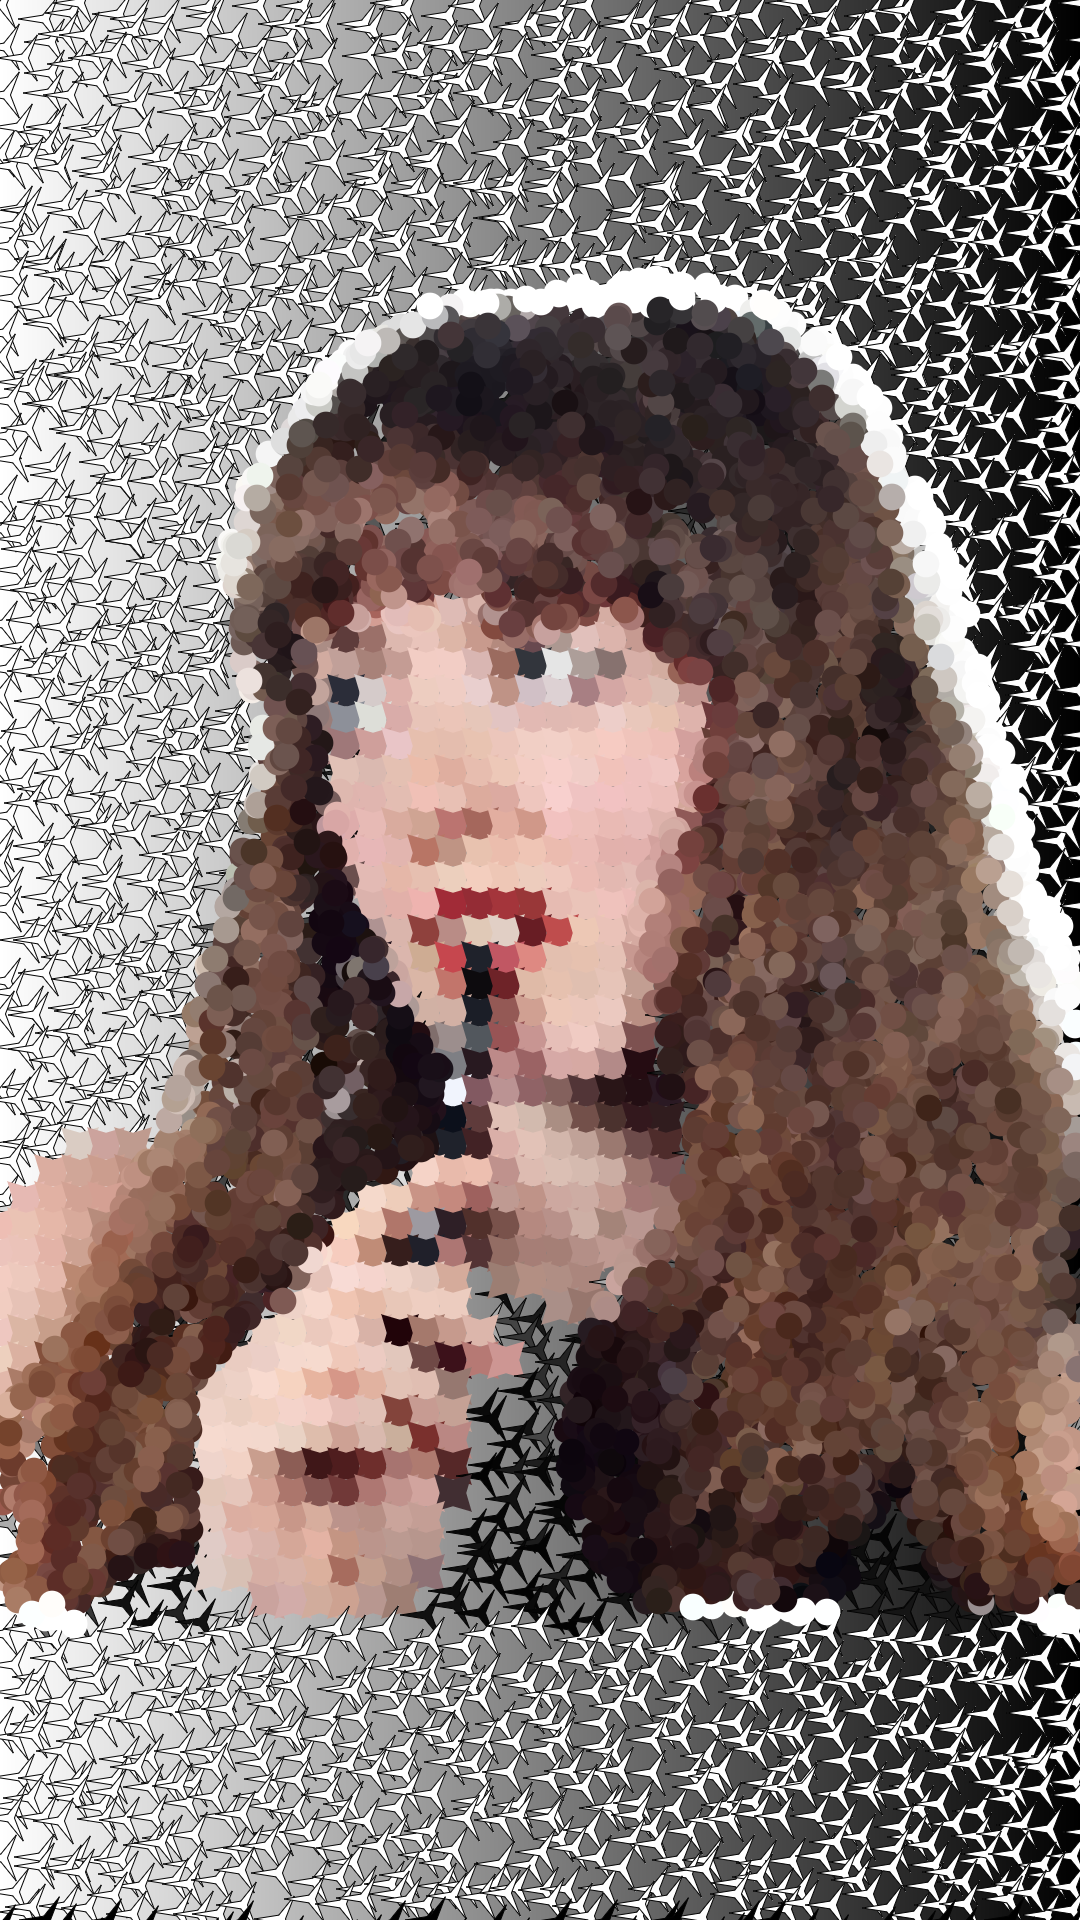
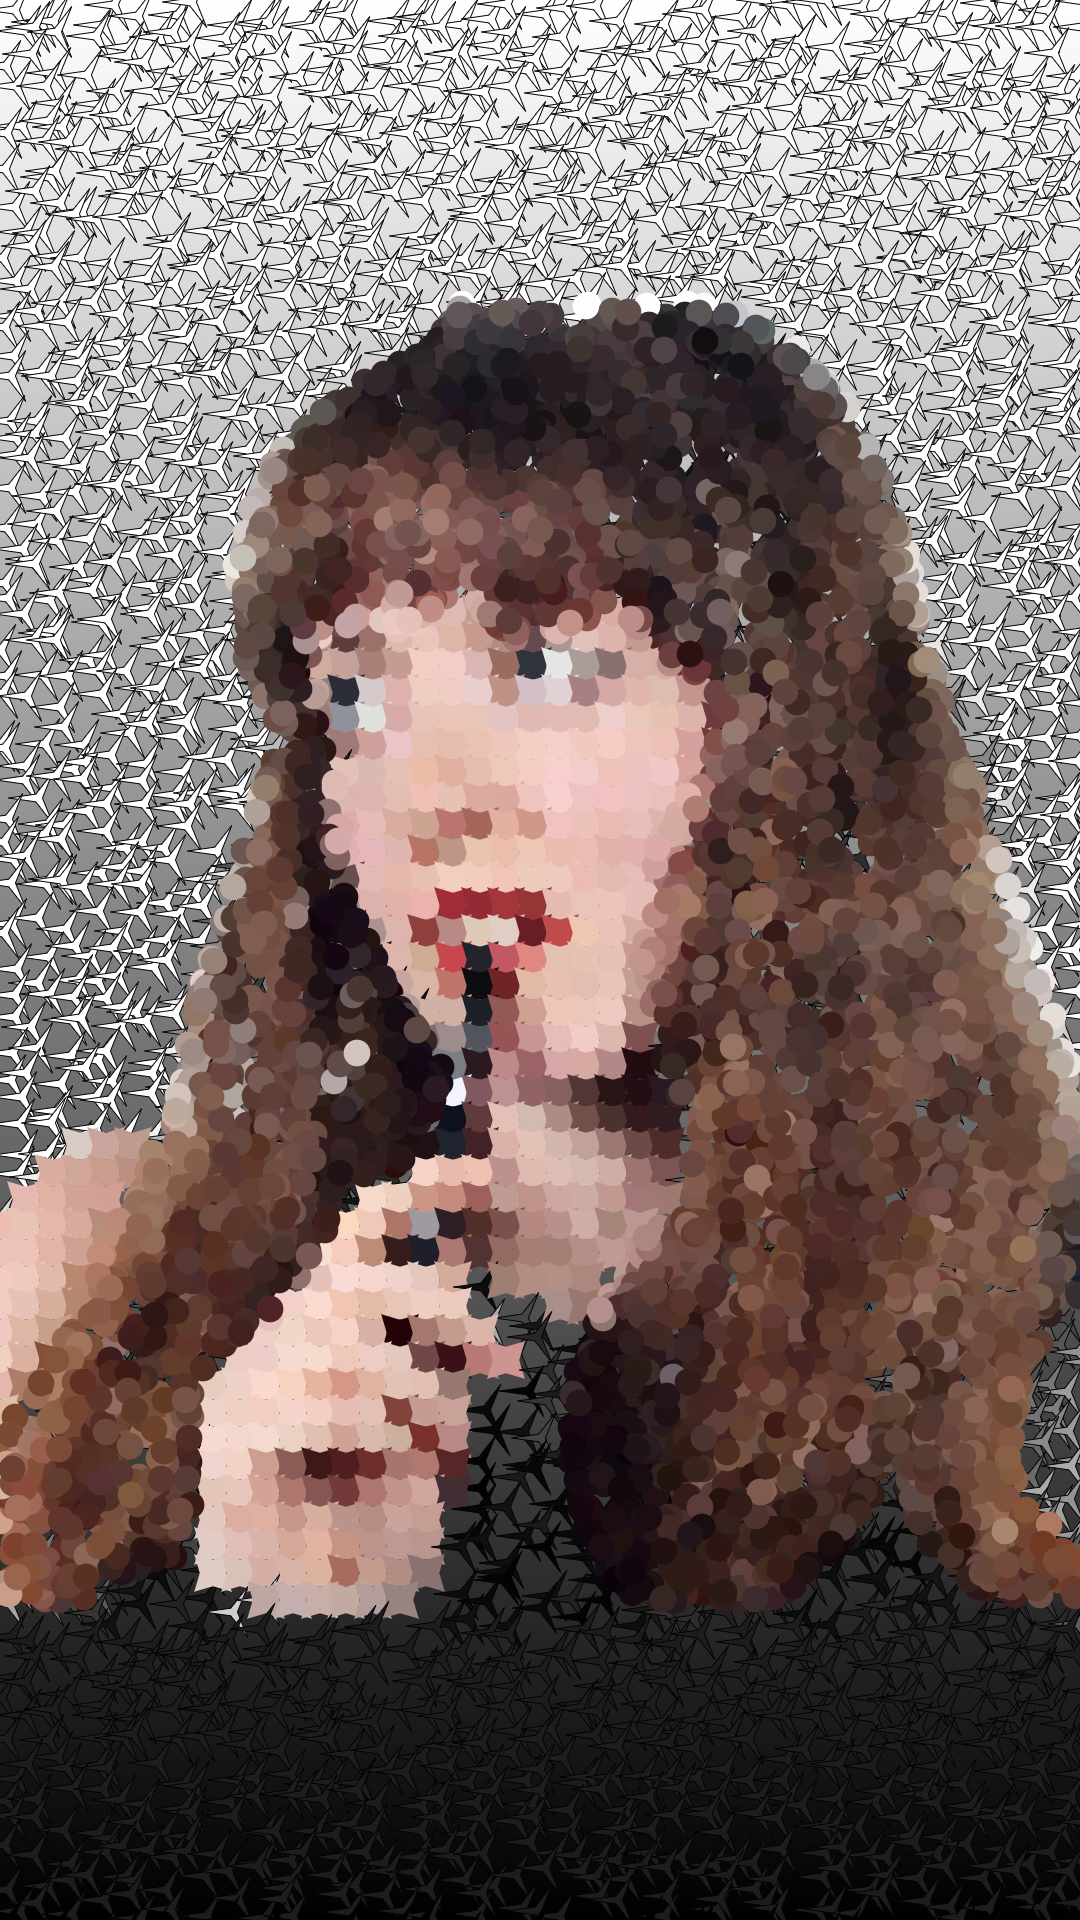
Minor edits

diff --git a/sketch.js b/sketch.js
@@ -26,9 +26,9 @@ var PixelDensity = 100*2;
 var DrawCalls = 400;
 
 function preload() {
-	sourceImg = loadImage("input_A1.jpg");
+	sourceImg = loadImage("input_A2.jpg");
 	maskImg = loadImage("mask_A1.png");
-	maskTwoImg = loadImage("mask_A2.png");
+	maskTwoImg = loadImage("mask_A3.png");
 }
 
 function setup () {
@@ -48,11 +48,11 @@ function convertRgbToHsluv(c) {
 }
 
 function draw () {
+	// Background handled here
   	if(bground==false){
-		// Background  
 		b1 = color(255);
 	  	b2 = color(0);
-	  	setGradient(0, 0, width, height, b1, b2, X_AXIS);
+	  	setGradient(0, 0, width, height, b1, b2, Y_AXIS);
 		bground=true;
 	}
 	for(let i=0;i<1080/elementSpacing;i++) {
@@ -89,7 +89,7 @@ function draw () {
 		      let hsluvColor = convertRgbToHsluv(pix);
 		      fillHsluv(0, 0, hsluvColor[2]);
 		      stroke(3);
-		      star(x, y, squareSize, halfSize/3, 3);
+		      star(x, y, squareSize*1.1, halfSize/3, 3);
 	  		}
 		}
 	}	
